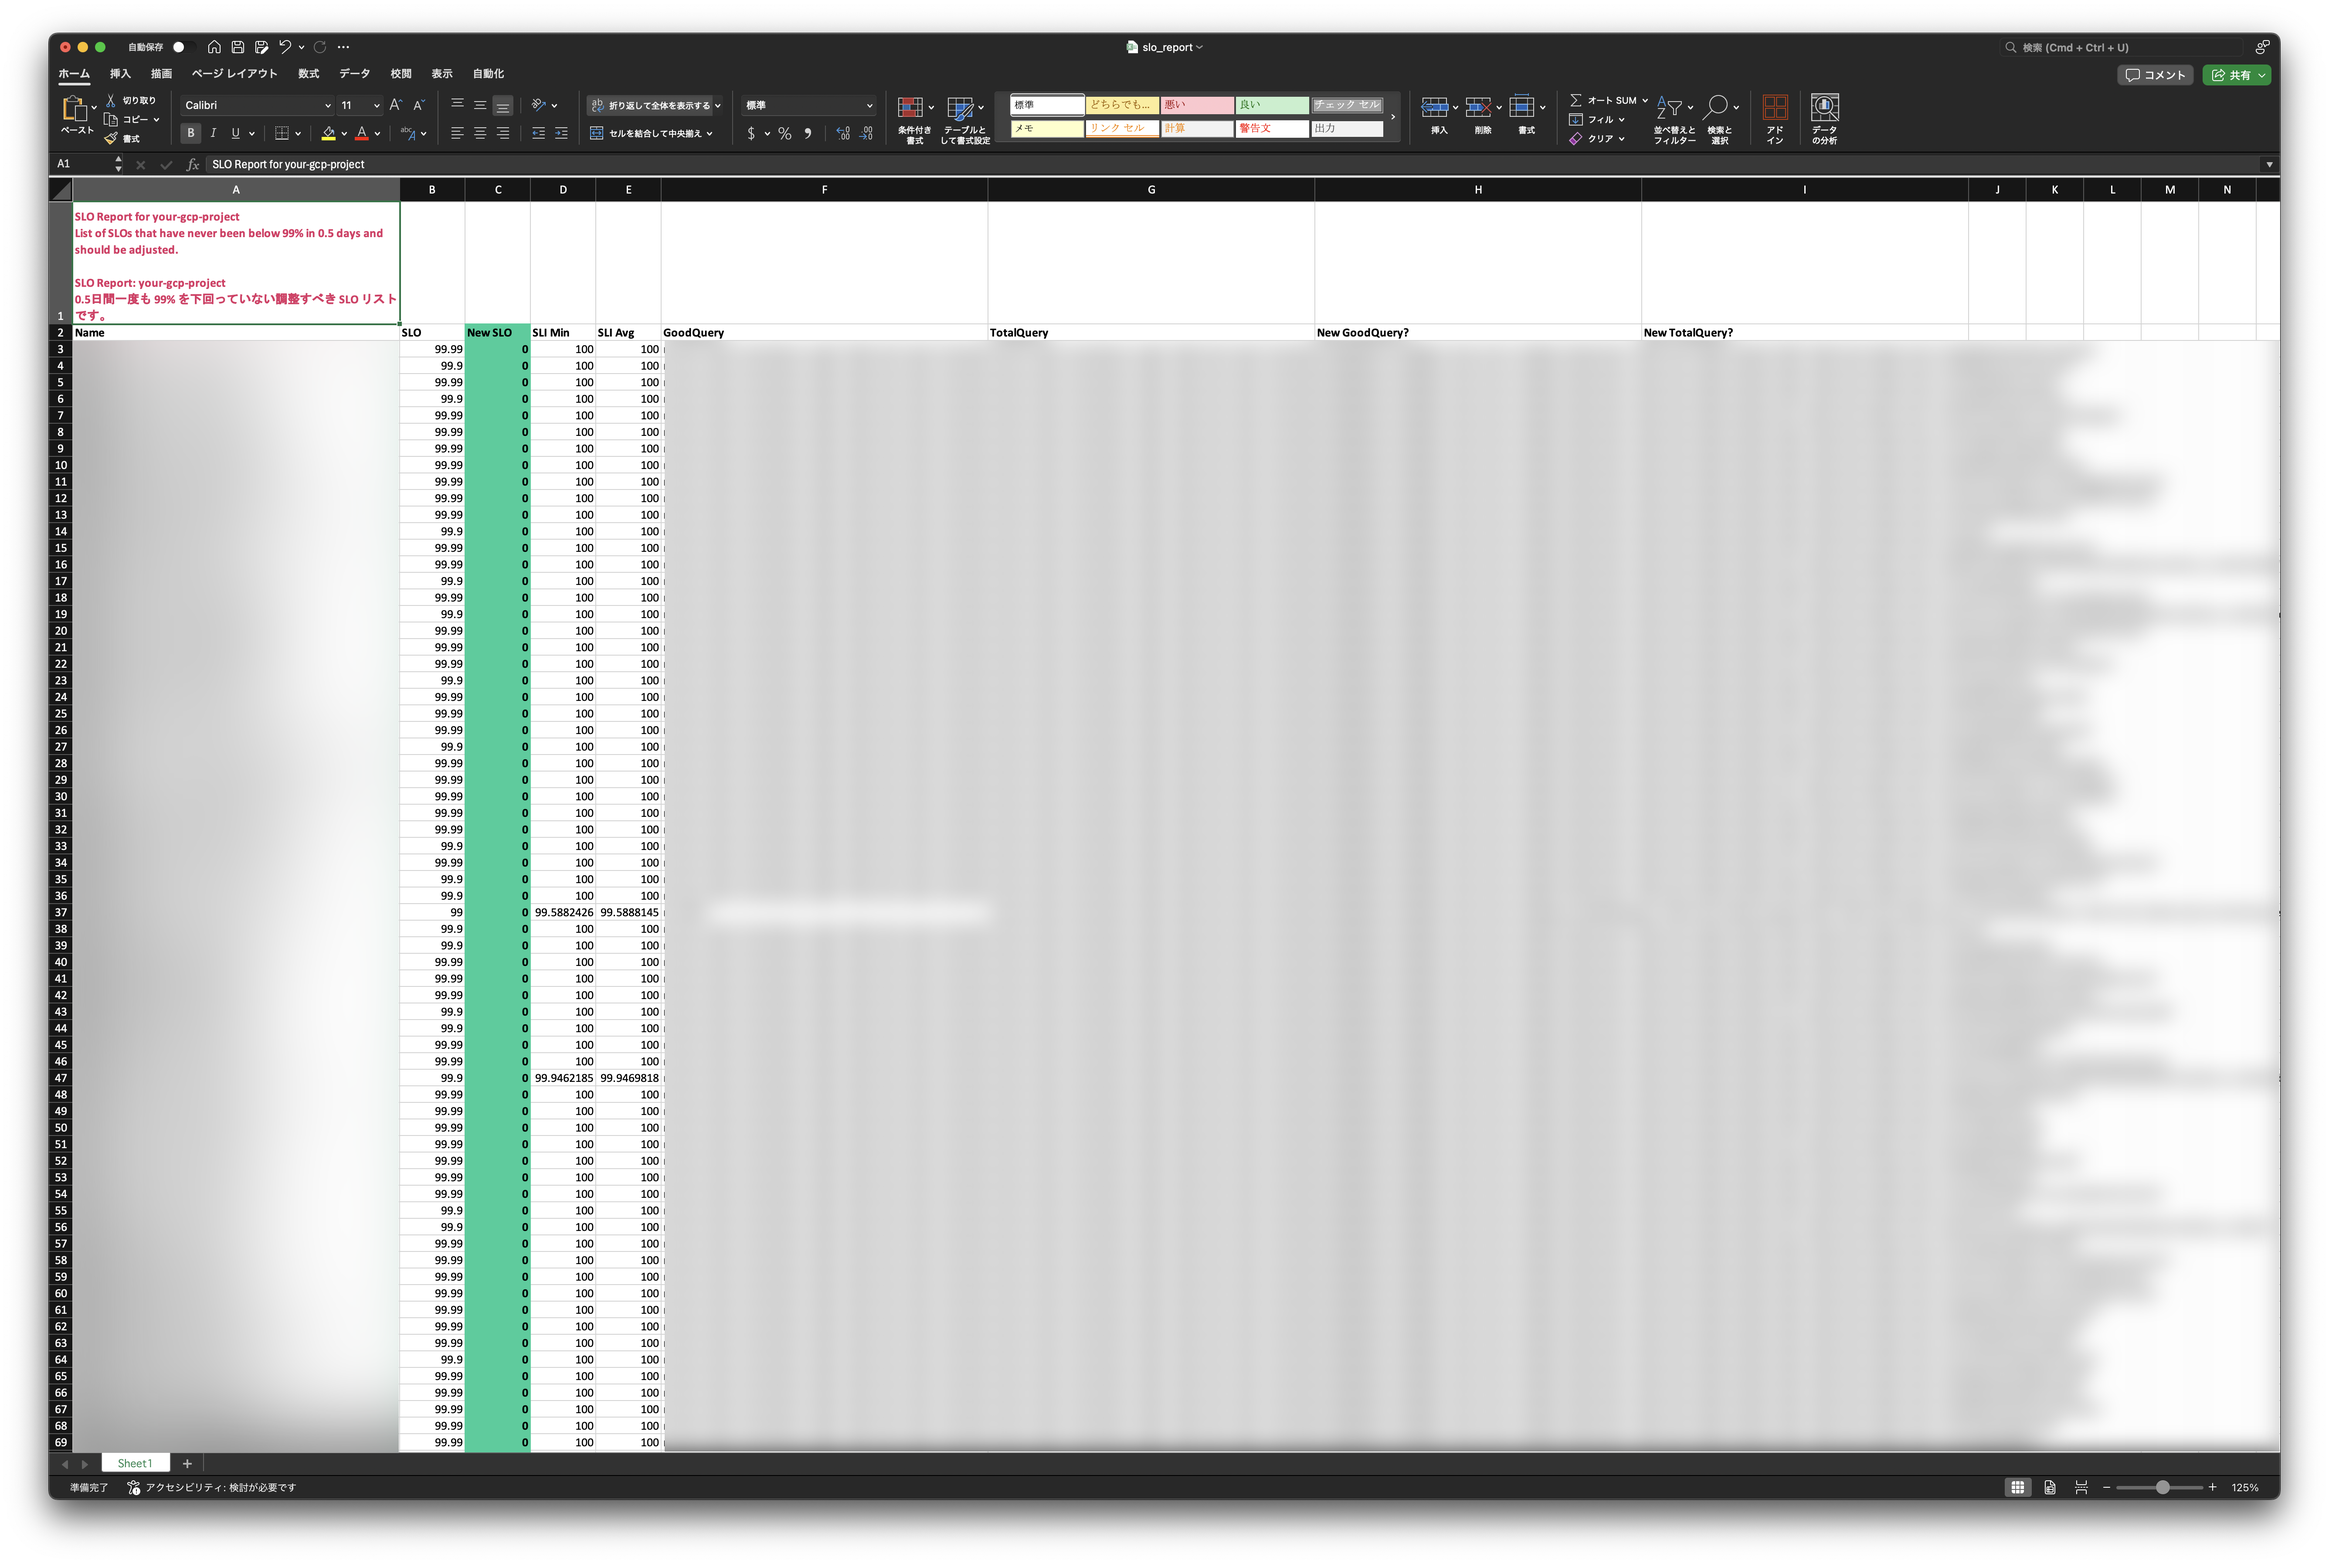
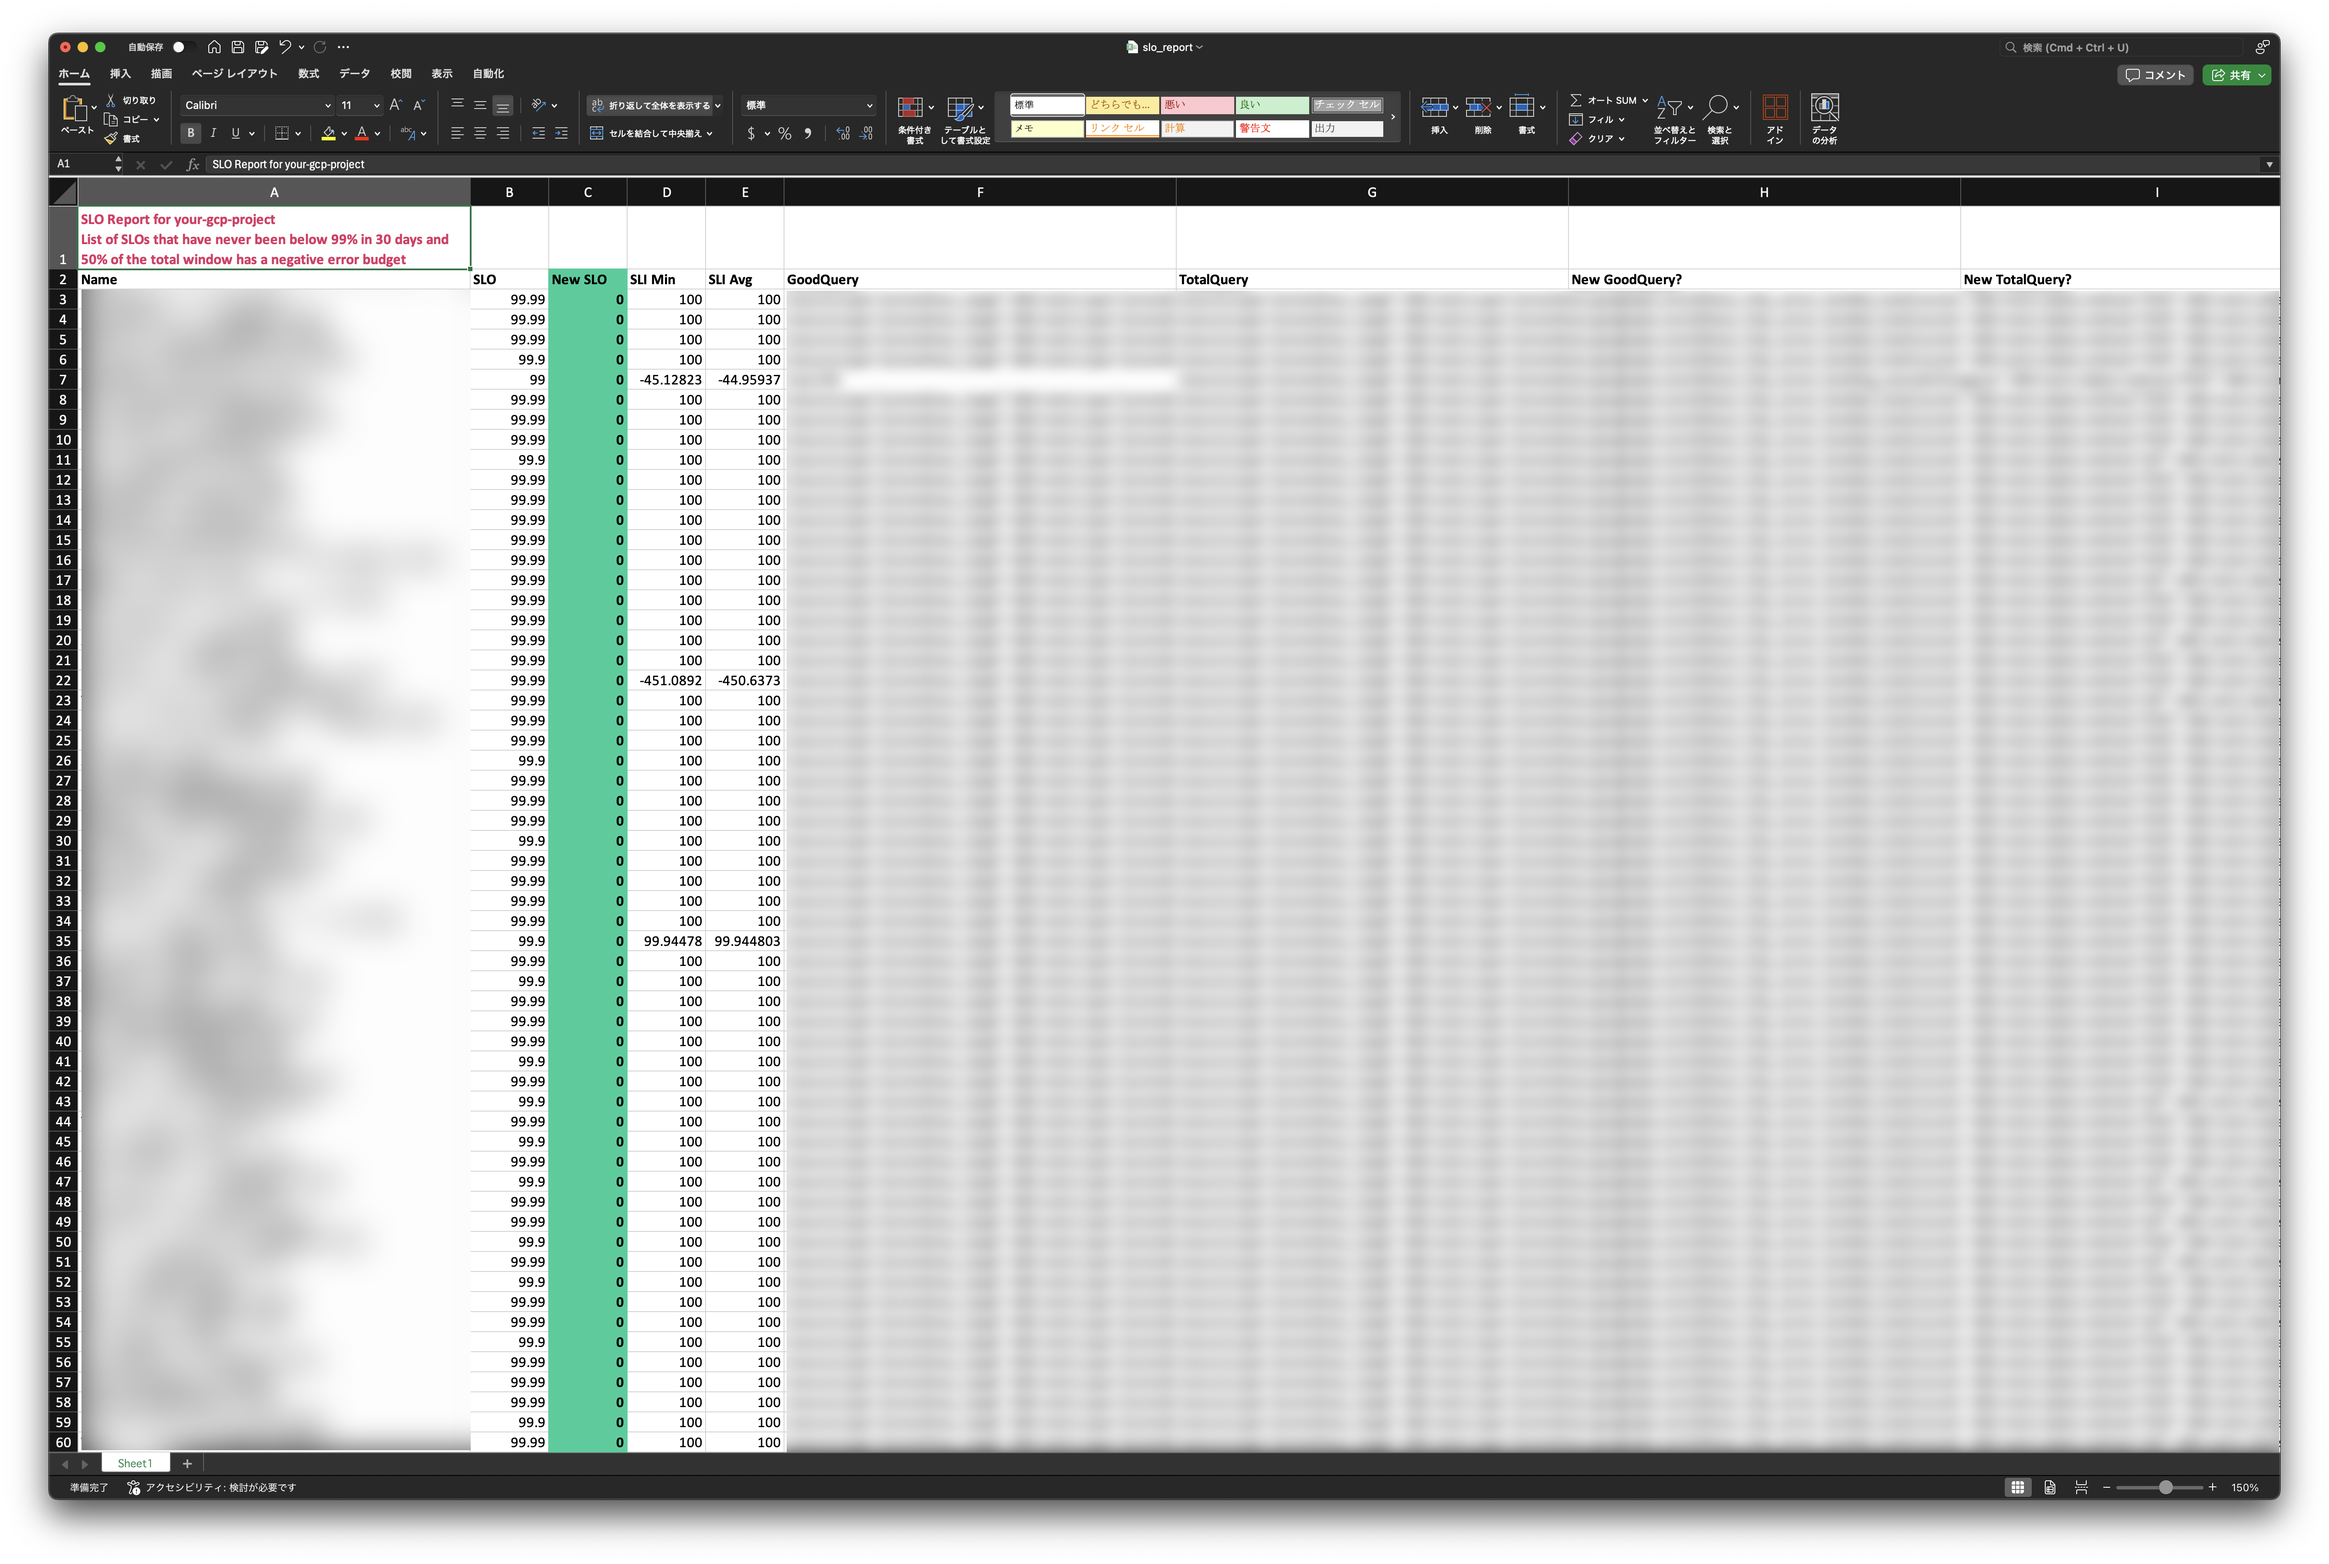
refactor: simplify and clarify code in generateExcelReport function

Changed region(s): [[0.0, 0.0936, 1.0, 0.9365], [0.0938, 0.7492, 0.1562, 0.8116]]

diff --git a/main.go b/main.go
@@ -172,7 +172,6 @@ func generateExcelReport(data map[string]*model.SLOData) {
 		}
 	}()
 
-	// スタイル作成をヘルパー関数化
 	boldStyle := createStyle(f, &excelize.Font{Bold: true})
 	highlightStyle := createStyle(f, &excelize.Font{Bold: true}, excelize.Fill{
 		Type:    "pattern",
@@ -190,7 +189,7 @@ func generateExcelReport(data map[string]*model.SLOData) {
 		"F-I": 50,
 	})
 	setSheetView(f)
-	setCellWithStyle(f, "A1", fmt.Sprintf("SLO Report for %s\nList of SLOs that have never been below %g%% in %g days...",
+	setCellWithStyle(f, "A1", fmt.Sprintf("SLO Report for %s\nList of SLOs that have never been below %g%% in %g days and 50%% of the total window has a negative error budget",
 		*gcpProjectID, *errorBudgetThreshold*100, window.Hours()/24), descriptionStyle)
 	setCellWithStyle(f, "C2", "New SLO", highlightStyle)
 
@@ -199,7 +198,6 @@ func generateExcelReport(data map[string]*model.SLOData) {
 		setCellWithStyle(f, fmt.Sprintf("%c2", 'A'+i), h, boldStyle)
 	}
 
-	// データ設定
 	row := 3
 	for k, v := range data {
 		if v.Flag {
@@ -247,7 +245,7 @@ func setSheetView(f *excelize.File) {
 
 func setColWidth(f *excelize.File, sheet string, columns map[string]float64) {
 	for rangeStr, width := range columns {
-		// 範囲指定（例: "B-E"）を開始列と終了列に分割
+		// split range e.g B-E
 		parts := strings.SplitN(rangeStr, "-", 2)
 		startCol := parts[0]
 		endCol := startCol
